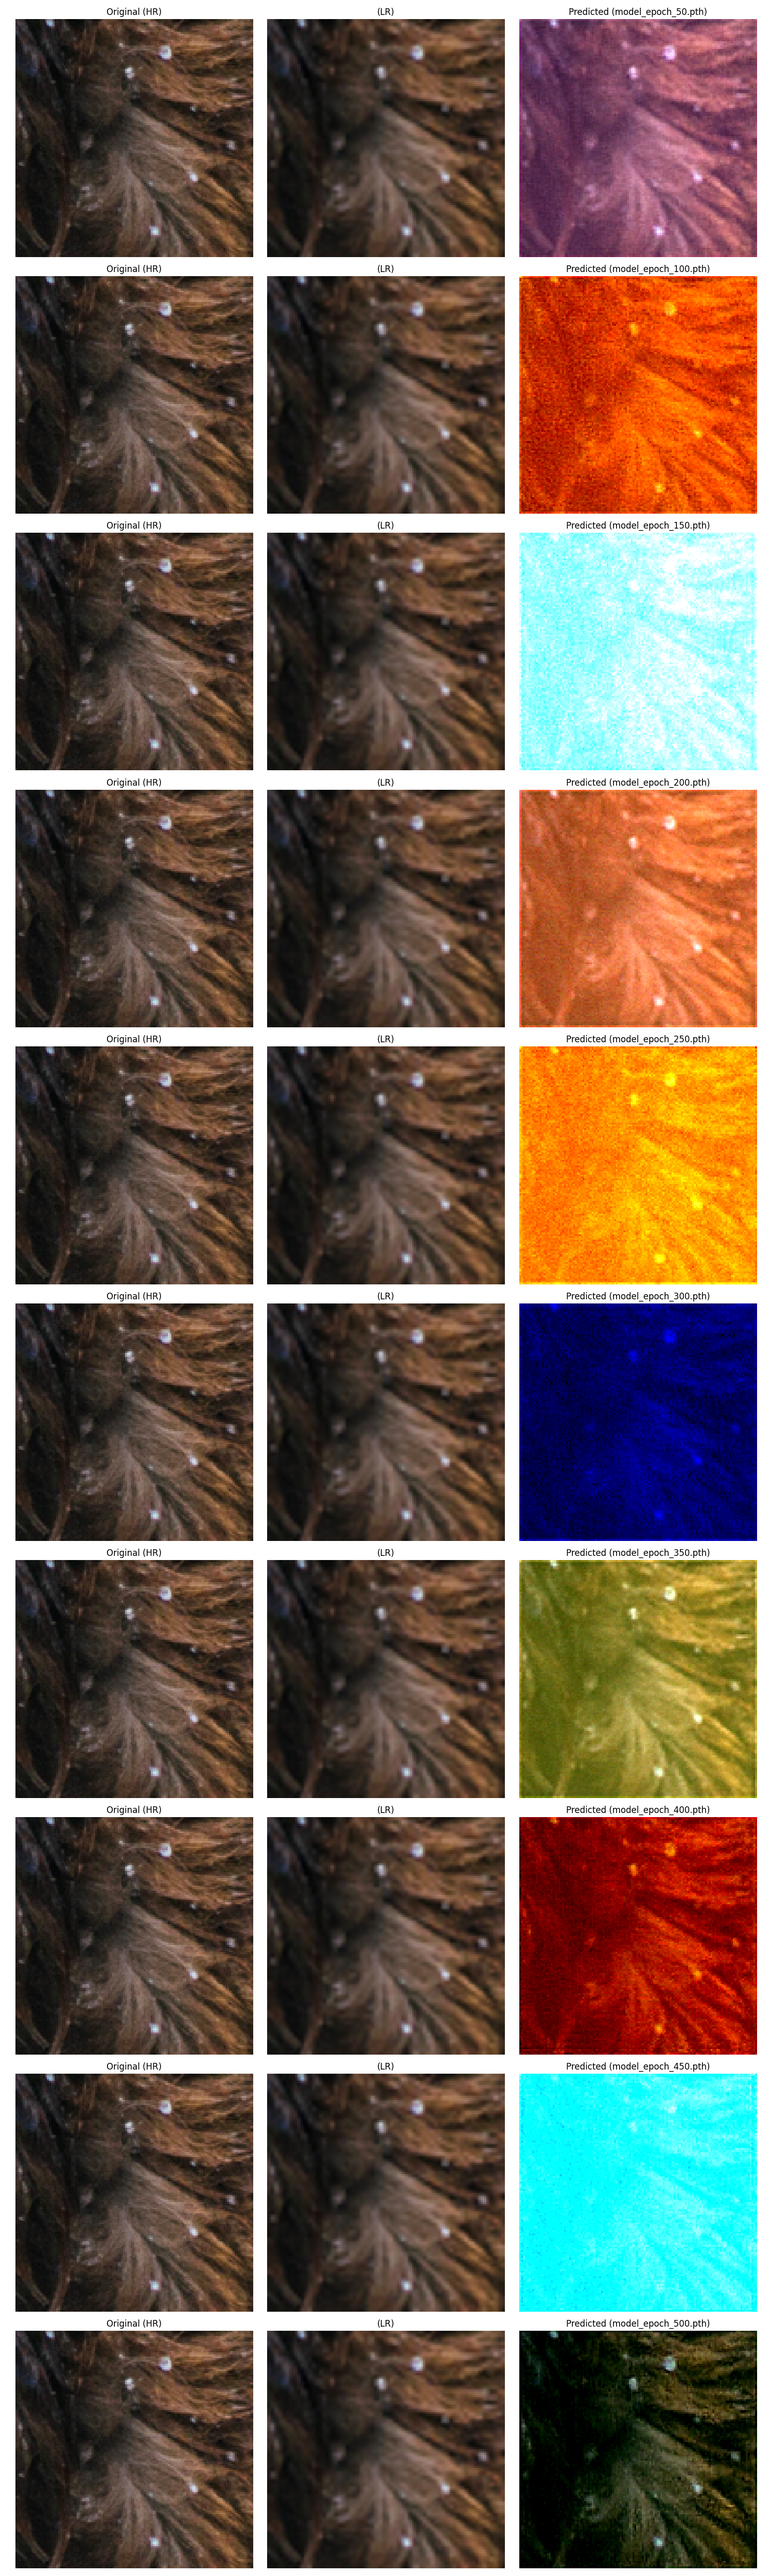
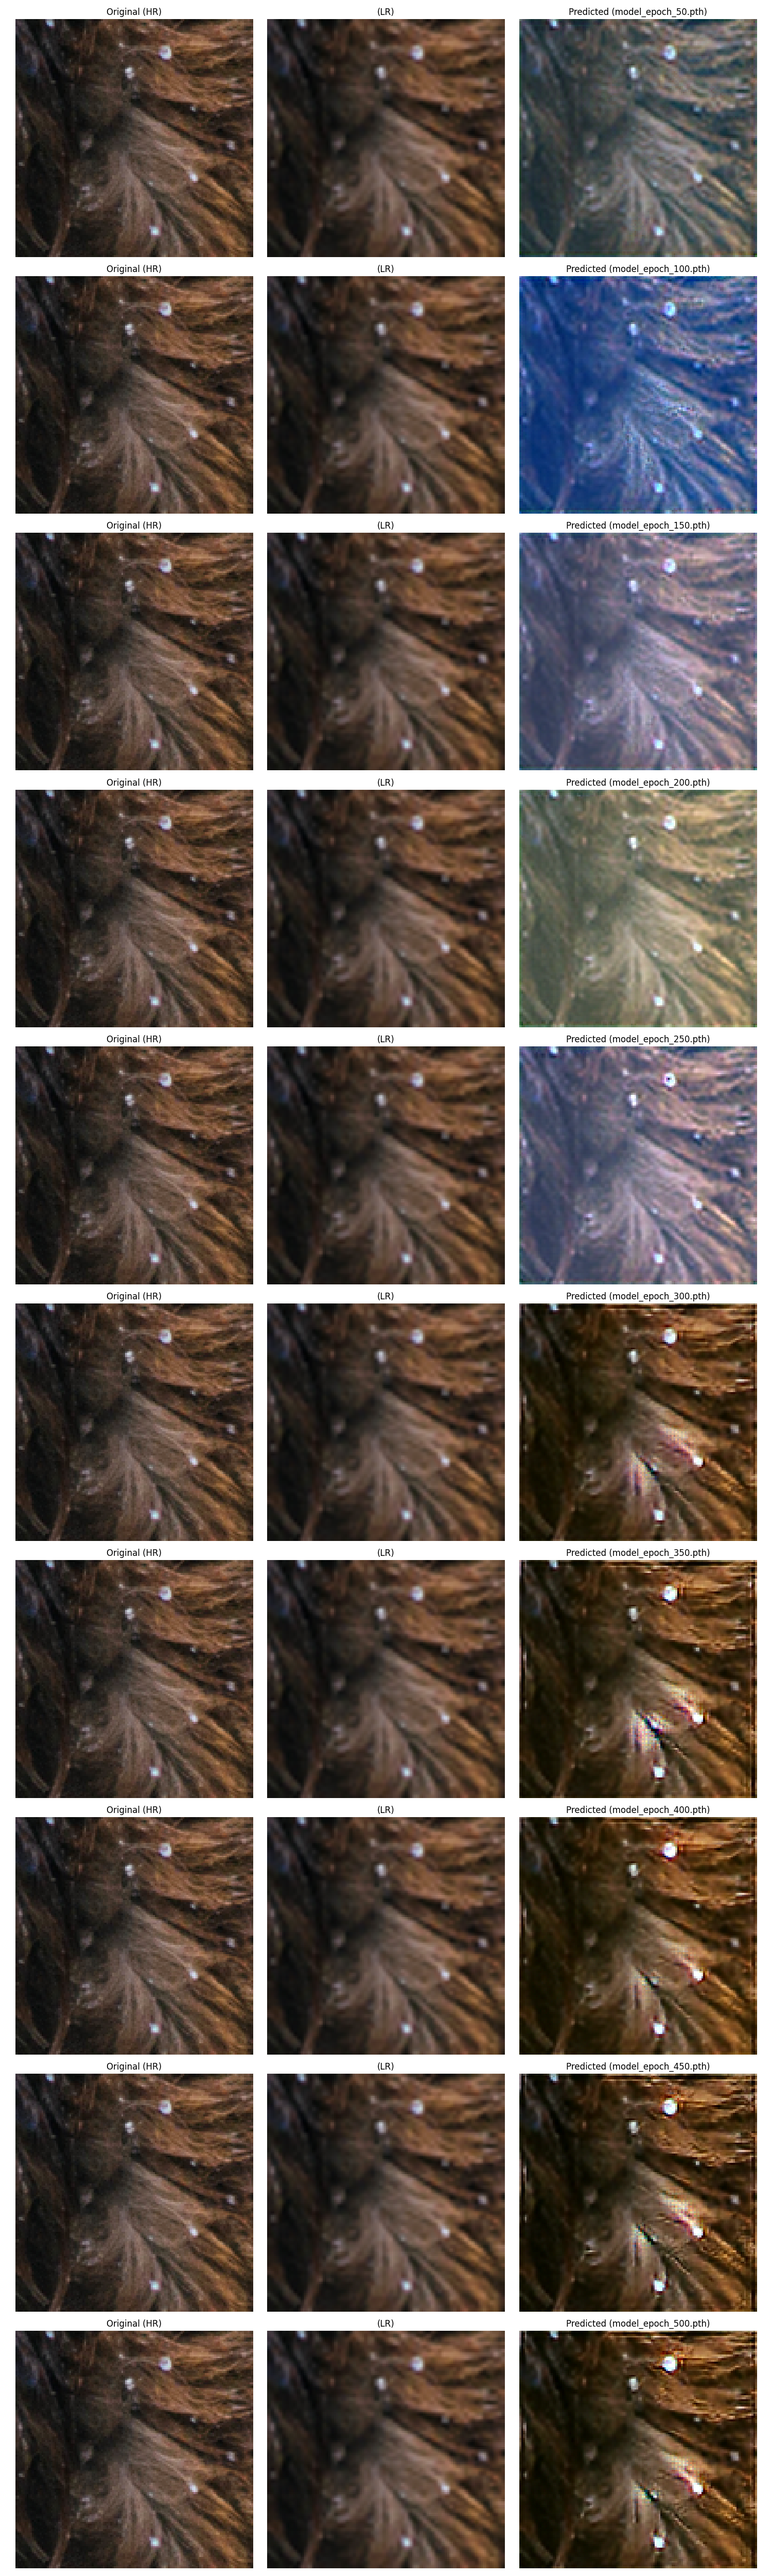
Added CFG

Changed region(s): [[0.6747, 0.0, 0.9813, 0.9984]]

diff --git a/src/diffusion.py b/src/diffusion.py
@@ -8,20 +8,27 @@ class DiffusionModel:
         self.device = device
         
         self.beta = torch.linspace(beta_start, beta_end, timesteps, device=self.device)
-        
         self.alpha = 1.0 - self.beta
         self.alpha_hat = torch.cumprod(self.alpha, dim=0)
+        self.alpha_hat_prev = F.pad(self.alpha_hat[:-1], (1, 0), value=1.0)
         
-        # For training process (forward)
+        # Calculations for diffusion q(x_t | x_{t-1}) and others
         self.sqrt_alpha_hat = torch.sqrt(self.alpha_hat)
         self.sqrt_one_minus_alpha_hat = torch.sqrt(1.0 - self.alpha_hat)
+        self.sqrt_recip_alpha_hat = torch.sqrt(1.0 / self.alpha_hat)
+        self.sqrt_recipm1_alpha_hat = torch.sqrt(1.0 / self.alpha_hat - 1)
         
-        # For sampling process
-        self.alpha_hat_prev = F.pad(self.alpha_hat[:-1], (1, 0), value=1.0)
-        self.sqrt_recip_alpha = torch.sqrt(1.0 / self.alpha)
-        self.beta_over_sqrt_one_minus_alpha_hat = (1.0 - self.alpha) / self.sqrt_one_minus_alpha_hat
+        # Calculations for posterior q(x_{t-1} | x_t, x_0)
         self.posterior_variance = self.beta * (1.0 - self.alpha_hat_prev) / (1.0 - self.alpha_hat)
+        # Log calculation clipped because the posterior variance is 0 at the beginning of the diffusion chain
         self.posterior_log_variance = torch.log(self.posterior_variance.clamp(min=1e-20))
+        
+        self.posterior_mean_coef1 = (
+            self.beta * torch.sqrt(self.alpha_hat_prev) / (1.0 - self.alpha_hat)
+        )
+        self.posterior_mean_coef2 = (
+            (1.0 - self.alpha_hat_prev) * torch.sqrt(self.alpha) / (1.0 - self.alpha_hat)
+        )
 
     # Retrievve values at timestep t
     def _get_tensor_values(self, tensor, t):
@@ -37,29 +44,50 @@ class DiffusionModel:
         )
         return x_t, epsilon
 
+    # Predict x_0 from x_t
+    def predict_start_from_noise(self, x_t, t, noise):
+        return (
+            self._get_tensor_values(self.sqrt_recip_alpha_hat, t) * x_t -
+            self._get_tensor_values(self.sqrt_recipm1_alpha_hat, t) * noise
+        )
+    
+    # Compute q(x_t-1 | x_t, x_0)
+    def q_posterior(self, x_start, x_t, t):
+        posterior_mean = (
+            self._get_tensor_values(self.posterior_mean_coef1, t) * x_start +
+            self._get_tensor_values(self.posterior_mean_coef2, t) * x_t
+        )
+        posterior_log_variance = self._get_tensor_values(self.posterior_log_variance, t)
+        return posterior_mean, posterior_log_variance
+
     # Reversing the noise p(x_{t-1} | x_t)
-    def sample_step(self, model, x_t, t, condition):
+    def sample_step(self, model, x_t, t, condition, cfg_scale=3.0):
         with torch.no_grad():
             t_batch = torch.full((x_t.shape[0],), t, device=self.device, dtype=torch.long)
             
-            # Predict noise using the U-Net
-            predicted_noise = model(x_t, t_batch, condition)
-            #predicted_noise = torch.clamp(predicted_noise, -1.0, 1.0)
+            if cfg_scale > 1.0:
+                # Conditional prediction (using the LR image)
+                noise_cond = model(x_t, t_batch, condition)
+                
+                # Unconditional prediction (using a black image)
+                noise_uncond = model(x_t, t_batch, torch.zeros_like(condition))
+                
+                # Combine them: push away from unconditional, towards conditional
+                predicted_noise = noise_uncond + cfg_scale * (noise_cond - noise_uncond)
+            else:
+                # Standard sampling if scale is 1.0
+                predicted_noise = model(x_t, t_batch, condition)
+
+            # Predict x_0 and clamp it to [-1, 1] to stop color explosion
+            x_start = self.predict_start_from_noise(x_t, t_batch, predicted_noise)
+            x_start = torch.clamp(x_start, -1.0, 1.0)
             
-            # Get pre-calculated coefficients
-            beta_over_sqrt_t = self._get_tensor_values(self.beta_over_sqrt_one_minus_alpha_hat, t_batch)
-            sqrt_recip_alpha_t = self._get_tensor_values(self.sqrt_recip_alpha, t_batch)
-            
-            # Calculate mean
-            mean = sqrt_recip_alpha_t * (x_t - beta_over_sqrt_t * predicted_noise)
+            # Posterior Mean
+            mean, log_variance = self.q_posterior(x_start, x_t, t_batch)
             
             if t == 0:
                 return mean
             else:
-                # Get variance
-                log_variance = self._get_tensor_values(self.posterior_log_variance, t_batch)
-                variance = torch.exp(0.5 * log_variance)
-                
-                # Sample
                 noise = torch.randn_like(x_t)
+                variance = torch.exp(0.5 * log_variance)
                 return mean + (variance * noise)

diff --git a/src/train.py b/src/train.py
@@ -17,7 +17,7 @@ def train(config):
     scale_factor = config['data']['scale_factor']
     
     ### Load Data ###
-    print("Loading dataset...")
+    print("Loading dataset")
     dataset = SuperResDataset(data_path, hr_size, scale_factor)
     dataloader = DataLoader(
         dataset,
@@ -27,7 +27,7 @@ def train(config):
     )
     
     ### Build Model ###
-    print("Building models...")
+    print("Building models")
     model = StandardUNet(
         in_channels=config['model']['in_channels'],
         model_channels=config['model']['model_channels'],
@@ -45,9 +45,10 @@ def train(config):
     ### Setup Training ###
     optimizer = optim.Adam(model.parameters(), lr=config['training']['learning_rate'])
     scheduler = CosineAnnealingLR(optimizer, T_max=config['training']['epochs'])
+    cfg_prob = config['training'].get('cfg_prob', 0.1)
     mse = nn.MSELoss()
     
-    print("Starting training...")
+    print(f"Starting training: {config['training']['epochs']} epochs")
     for epoch in range(config['training']['epochs']):
         epoch_loss = 0
         for step, (lr_batch, hr_batch) in enumerate(dataloader):
@@ -55,6 +56,10 @@ def train(config):
             
             lr_batch = lr_batch.to(device)
             hr_batch = hr_batch.to(device)
+
+            # Randomly replace condition with zeros to train unconditional generation
+            if torch.rand(1).item() < cfg_prob:
+                lr_batch = torch.zeros_like(lr_batch)
             
             t = torch.randint(0, diffusion.timesteps, (hr_batch.shape[0],), device=device)
             
@@ -95,7 +100,7 @@ if __name__ == "__main__":
         'data': {'path': dataset_dir, 'hr_size': 128, 'scale_factor': 2},
         'model': {'in_channels': 3, 'model_channels': 64, 'time_emb_dim': 256},
         'diffusion': {'timesteps': 1000, 'beta_start': 1e-4, 'beta_end': 0.02},
-        'training': {'epochs': 50, 'batch_size': 16, 'learning_rate': 1e-4, 'save_dir': 'models'}
+        'training': {'epochs': 250, 'batch_size': 16, 'learning_rate': 1e-4, 'save_dir': 'models', 'cfg_prob': 0.1}
     }
     
     train(config)

diff --git a/src/sample.py b/src/sample.py
@@ -44,7 +44,7 @@ def un_normalize(tensor):
     return tensor
 
 # Runs reverse diffusion
-def run_sampling_loop(model, diffusion, condition):
+def run_sampling_loop(model, diffusion, condition, cfg_scale=4.0):
     # Start with pure noise
     x_t = torch.randn_like(condition)
     
@@ -52,7 +52,7 @@ def run_sampling_loop(model, diffusion, condition):
     
     with torch.no_grad():
         for t in reversed(range(diffusion.timesteps)):
-            x_t = diffusion.sample_step(model, x_t, t, condition)
+            x_t = diffusion.sample_step(model, x_t, t, condition, cfg_scale=cfg_scale)
     return x_t
 
 
@@ -120,7 +120,7 @@ if __name__ == "__main__":
         model.eval()
         
         # Run inference
-        predicted_x_t = run_sampling_loop(model, diffusion, condition)
+        predicted_x_t = run_sampling_loop(model, diffusion, condition, cfg_scale=4.0)
         
         # Original HR
         ax[i, 0].imshow(un_normalize(hr_original))
